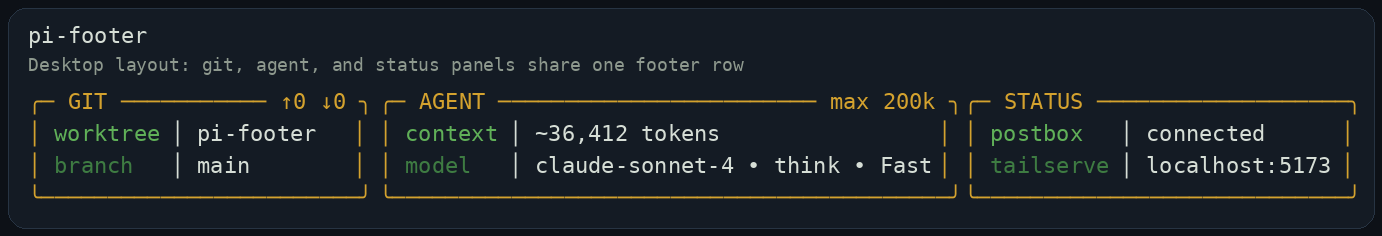
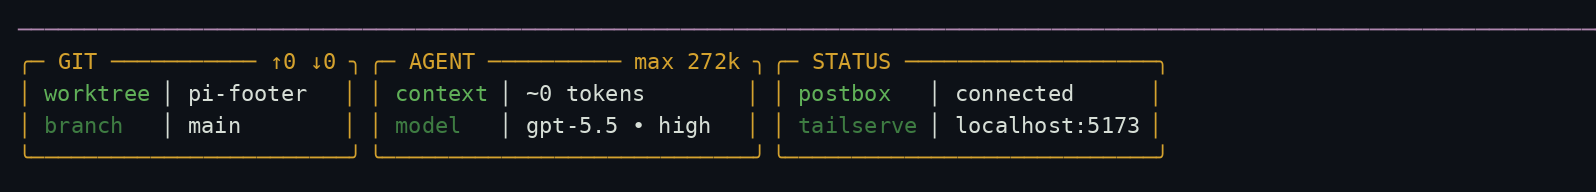
docs: replace footer previews with real captures

Changed region(s): [[0.0, 0.25, 0.9957, 0.8438], [0.0, 0.125, 1.0, 0.1875], [0.0, 0.9375, 0.9957, 0.9688]]

diff --git a/README.md b/README.md
@@ -10,7 +10,7 @@ The panel layout is inspired by [`@alasano/pi-panels`](https://github.com/alasan
 
 ## Preview
 
-Desktop-width terminals show the panels side by side:
+Captured from real Pi TUI ANSI output, desktop-width terminals show the panels side by side:
 
 ![pi-footer desktop layout](https://raw.githubusercontent.com/dasomji/pi-footer/main/assets/pi-footer-wide.png)
 